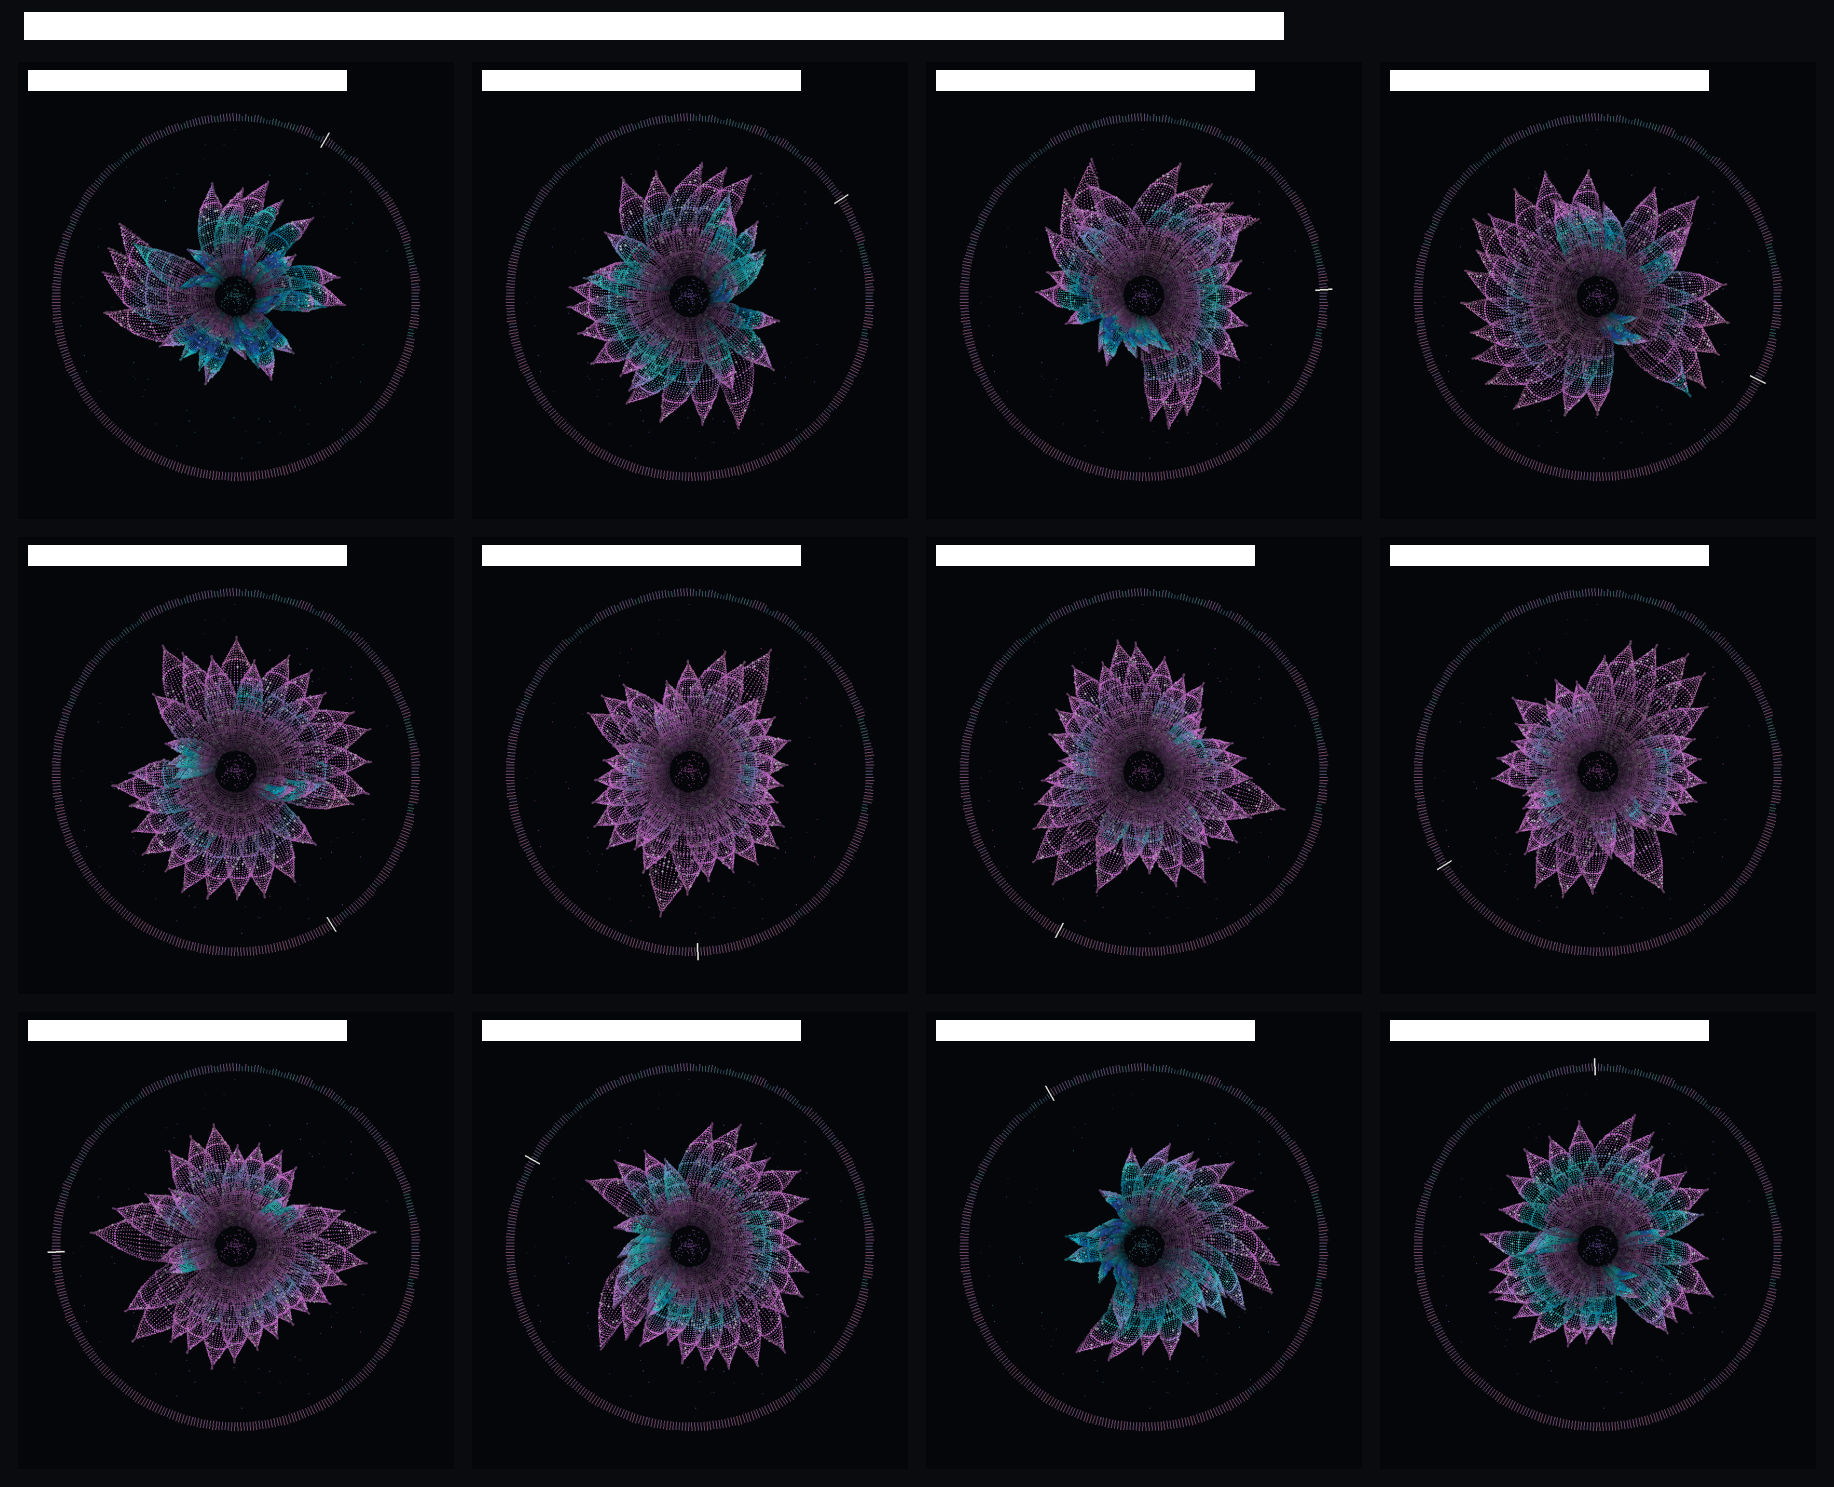
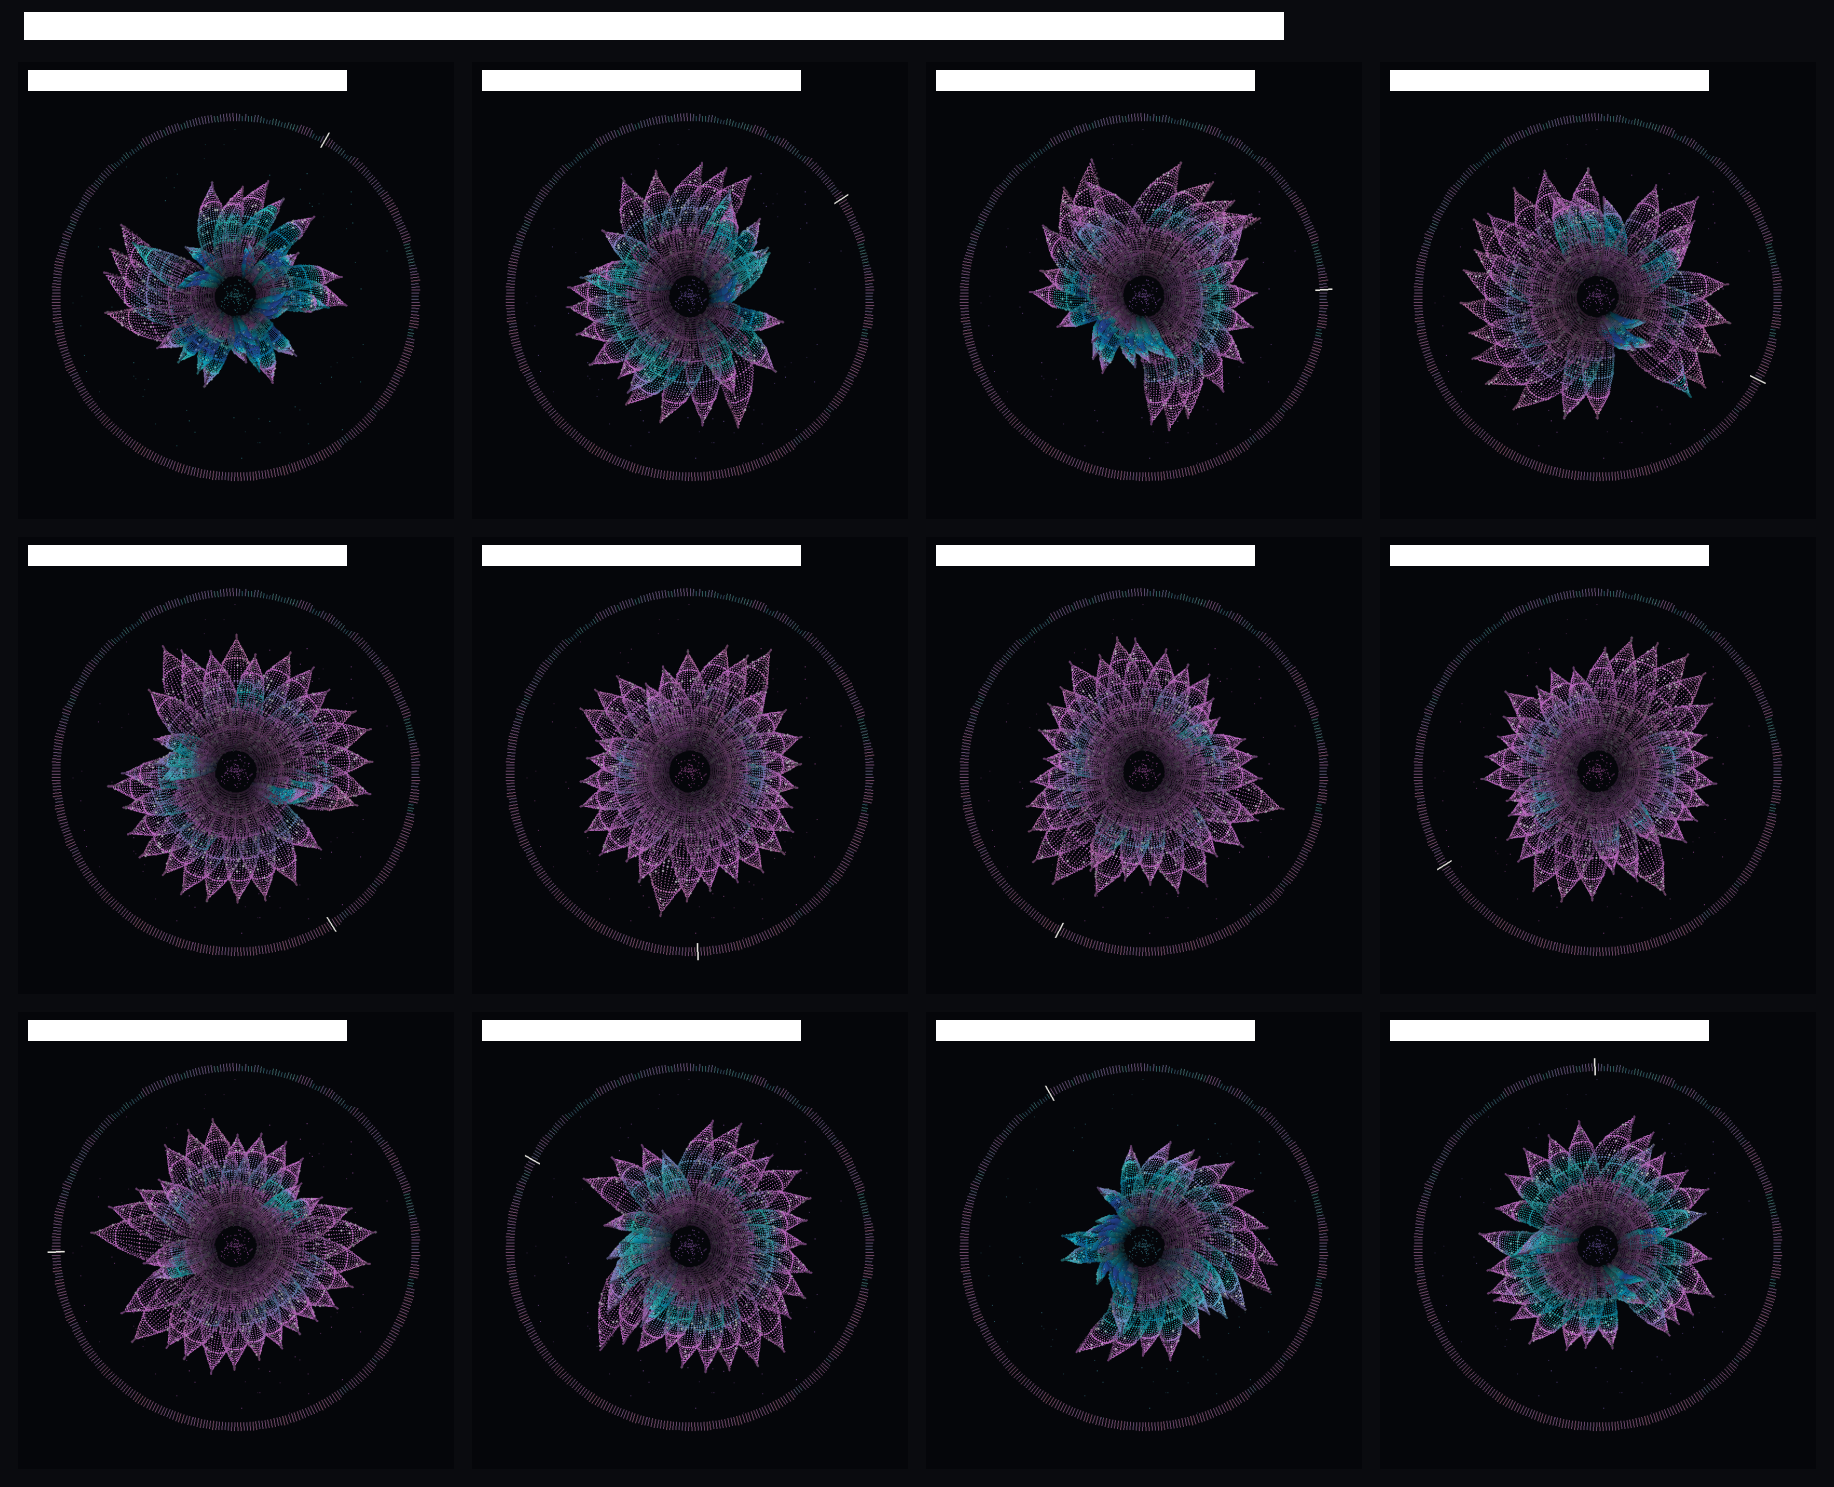
Calm the reach: 35/65 weights, gentle compression, a floor so no day vanishes

diff --git a/bloom.py b/bloom.py
@@ -94,6 +94,16 @@ def clamp(x, low=0.0, high=1.0):
     return max(low, min(high, x))
 
 
+# How a day's humidity becomes a petal's reach.
+#   REL_WEIGHT   how much of the reach is "wetter than the rest of this month"
+#                (the rest is the absolute, year-wide reading)
+#   REACH_POWER  a gentle compression, so a two-point gap is not a chasm
+#   REACH_FLOOR  no petal disappears: the driest day is a short petal, not a gap
+REL_WEIGHT = 0.35
+REACH_POWER = 0.85
+REACH_FLOOR = 0.12
+
+
 def _ramp(stops, value, low, high):
     t = clamp((value - low) / (high - low))
     pos = t * (len(stops) - 1)
@@ -210,12 +220,15 @@ def draw_ring(surface, days, needle_day):
 
 
 def petal_frac(month, record):
-    """How far this day's petal reaches: its own month and the whole ramp, mixed."""
+    """How far this day's petal reaches: its own month and the whole ramp, mixed,
+    then compressed so the flower stays readable, with a floor so no day vanishes."""
     means = [average(r["rh"]) for r in month["days"]]
     lo, hi = min(means), max(means)
     mean_rh = average(record["rh"])
     rel = (mean_rh - lo) / (hi - lo) if hi > lo else 0.5
-    return 0.5 * rel + 0.5 * clamp((mean_rh - 40.0) / 60.0)
+    abso = clamp((mean_rh - 40.0) / 60.0)
+    mixed = REL_WEIGHT * rel + (1.0 - REL_WEIGHT) * abso
+    return max(REACH_FLOOR, mixed ** REACH_POWER)
 
 
 def petal_at(pos, year, month_i, open_count):

diff --git a/README.md b/README.md
@@ -105,15 +105,18 @@ uv run --with pygame-ce bloom.py --sheet out/bloom-year.png
 
 **Why the winter flowers look ragged.** The petals are evenly spaced — day j
 always sits at j/360 of the turn — but they are not evenly *sized*, and the
-unevenness is the data. Petal reach is the day's mean humidity, and the
-months differ wildly in how much that varies: a January swings from 33 %
-(dry continental wind, the 12th) to 84 % (a humid spell, the 25th), a
-51-point spread, so its flower is a mix of long plumes and stubs that lean
-in opposite directions (the lean is dew point, and January had real cold
-spells and a warm humid one). A July only spreads 15 points, 79 to 94 %, so
-its flower is a regular, fully-open rosette. The tidy summer and the ragged
-winter are the same design reading the same number — winter is simply a
-more argumentative month.
+unevenness is the data. Petal reach blends two readings: 35 % of it is how
+humid the day was against the rest of its month, 65 % is its place on the
+absolute 40–100 % ramp, the mix is gently compressed, and a floor keeps the
+driest day as a short petal rather than a hole. The months still differ
+wildly, because the data does: a January swings from 33 % (dry continental
+wind, the 12th) to 84 % (a humid spell, the 25th) — a 51-point spread — so
+its flower is a mix of long plumes and stubs that lean in opposite directions
+(the lean is dew point, and January had real cold spells and a warm humid
+one). A July only spreads 15 points, 79 to 94 %, so its flower is close to a
+regular, fully-open rosette. The tidy summer and the ragged winter are the
+same design reading the same number — winter is simply a more argumentative
+month.
 
 `bloom_day.py` is the previous version, kept on purpose: there one flower was
 one day (24 petals, one per hour) and the arrow keys scrubbed the year. It is

diff --git a/PROCESS.md b/PROCESS.md
@@ -68,3 +68,20 @@ humidity and dew point — appear at the foot of the window. That turned the
 flower from a picture you look at into one you can interrogate, and it uses
 the same hit-test arithmetic as the drawing, so the lit petal and the label
 can never disagree.
+
+**Calibrating the reach.** The first petal-length formula mixed two readings
+half and half — how humid the day was against its own month, and against the
+40–100 % ramp — and the mix shouted. In July, where daily means only wander
+between 79 and 94 %, that 15-point spread was stretched into a threefold
+difference in petal length; in January the driest days (33 %) collapsed to
+zero and simply vanished, which read as missing data, not as dryness. The AI
+helped me rewrite the mapping as three named constants at the top of the
+file, and the values are a claim about the data, so they belong in writing:
+`REL_WEIGHT = 0.35` (how much of the reach is "wet for this month", the rest
+is the absolute reading), `REACH_POWER = 0.85` (a gentle compression so a
+two-point gap is not a chasm) and `REACH_FLOOR = 0.12` (no petal disappears;
+the driest day is a short petal, not a hole). With these, July's
+loudest-to-quietest ratio falls from about 3× to 2×, and January's dry spell
+survives as stubs you can still hover and read. Nothing else moved: the
+colour, the swell and the curl still use the raw humidity and dew point, so
+the length is the only place this calibration lives.
